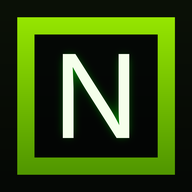
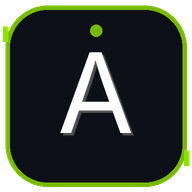
feat: troca Nitro Alerta por Andre Alerta em todo o site + novo icone com letra A e visual moderno

diff --git a/bot/templates/bot/nitroalerta_cancelar.html b/bot/templates/bot/nitroalerta_cancelar.html
@@ -3,6 +3,8 @@
 
 {% block title %}Cancelar Nitro Alerta | André Indica{% endblock %}
 {% block description %}Cancele seu alerta de ofertas por WhatsApp da André Indica.{% endblock %}
+{% block title %}Cancelar André Alerta | André Indica{% endblock %}
+{% block description %}Cancele seu alerta de ofertas por WhatsApp do André Indica.{% endblock %}
 
 
 
@@ -12,6 +14,7 @@
     <span class="corner-square"></span>
     <div class="hero-inner">
         <h1 class="hero-title">Cancelar Nitro Alerta</h1>
+        <h1 class="hero-title">Cancelar André Alerta</h1>
     </div>
 </div>
 
@@ -27,11 +30,13 @@
         <h2 style="font-family:var(--font-promo);font-size:22px;color:var(--body);margin:0 0 12px;">Este alerta já estava desativado</h2>
         <p style="color:var(--mute);line-height:1.7;margin:0 0 20px;">Nada a fazer. Você não recebe mais alertas desse produto.</p>
         <a href="{% url 'nitroalerta' %}" class="btn btn-primary btn-lg">Ver Nitro Alerta</a>
+        <a href="{% url 'nitroalerta' %}" class="btn btn-primary btn-lg">Ver André Alerta</a>
         {% else %}
         <div style="font-size:56px;margin-bottom:16px;">❌</div>
         <h2 style="font-family:var(--font-promo);font-size:22px;color:var(--body);margin:0 0 12px;">Link inválido</h2>
         <p style="color:var(--mute);line-height:1.7;margin:0 0 20px;">Este link de cancelamento não é válido ou expirou.</p>
         <a href="{% url 'nitroalerta' %}" class="btn btn-primary btn-lg">Ir para o Nitro Alerta</a>
+        <a href="{% url 'nitroalerta' %}" class="btn btn-primary btn-lg">Ir para o André Alerta</a>
         {% endif %}
     </div>
 </div>

diff --git a/bot/templates/bot/base.html b/bot/templates/bot/base.html
@@ -132,6 +132,7 @@
                 <a href="{% url 'nitroalerta' %}" class="nav-icon-item">
                     <i class="fas fa-bell"></i>
                     <span>Nitro Alerta</span>
+                    <span>André Alerta</span>
                 </a>
             </div>
 
@@ -150,6 +151,7 @@
         <a href="#" class="mobile-link" id="btnAppQrMobile"><i class="fas fa-mobile-alt"></i> Baixar o app</a>
         <a href="/promos/" class="mobile-link {% block nav_promos_mobile %}active{% endblock %}"><i class="fas fa-store"></i> Promoções</a>
         <a href="{% url 'nitroalerta' %}" class="mobile-link"><i class="fas fa-bell"></i> Nitro Alerta</a>
+        <a href="{% url 'nitroalerta' %}" class="mobile-link"><i class="fas fa-bell"></i> André Alerta</a>
         <a href="{% url 'sobre' %}" class="mobile-link"><i class="fas fa-info-circle"></i> Sobre</a>
         <a href="{% url 'contato' %}" class="mobile-link"><i class="fas fa-envelope"></i> Contato</a>
         {% block mobile_filters %}{% endblock %}
@@ -209,6 +211,7 @@
             <a href="https://www.instagram.com/nitro_tech_brasil/" target="_blank" class="footer-link">Instagram</a>
             <a href="https://www.tiktok.com/@nitrotech.store" target="_blank" class="footer-link">TikTok</a>
             <a href="{% url 'nitroalerta' %}" class="footer-link">Nitro Alerta</a>
+            <a href="{% url 'nitroalerta' %}" class="footer-link">André Alerta</a>
         </div>
         <div>
             <div class="footer-heading">Institucional</div>

diff --git a/bot/templates/bot/nitroalerta.html b/bot/templates/bot/nitroalerta.html
@@ -3,6 +3,8 @@
 
 {% block title %}Nitro Alerta | André Indica{% endblock %}
 {% block description %}Cadastre seu WhatsApp e receba alertas de ofertas de produtos que você quer, direto no seu número. André Indica Alerta.{% endblock %}
+{% block title %}André Alerta | André Indica{% endblock %}
+{% block description %}Cadastre seu WhatsApp e receba alertas de ofertas de produtos que você quer, direto no seu número. André Alerta.{% endblock %}
 
 {% block nav_promos %}active{% endblock %}
 
@@ -15,6 +17,7 @@
     <div class="hero-inner">
         <span class="hero-eyebrow">Alertas por WhatsApp</span>
         <h1 class="hero-title">Nitro Alerta</h1>
+        <h1 class="hero-title">André Alerta</h1>
         <p class="hero-sub">Cadastre seu nome e WhatsApp, digite o produto que você quer. Quando uma oferta dele aparecer aqui no site, a gente te avisa na hora.</p>
     </div>
 </div>
@@ -62,6 +65,7 @@
                 <input type="text" name="keyword" placeholder="ex: placa de vídeo rx 580" value="{{ request.POST.keyword }}" required style="width:100%;padding:12px 14px;background:var(--surface-soft);border:1px solid var(--hairline);border-radius:8px;color:var(--body);font-size:15px;">
             </div>
             <button type="submit" class="btn btn-primary btn-lg btn-block">Ativar Nitro Alerta <i class="fas fa-bell"></i></button>
+            <button type="submit" class="btn btn-primary btn-lg btn-block">Ativar André Alerta <i class="fas fa-bell"></i></button>
         </form>
     </div>
 
